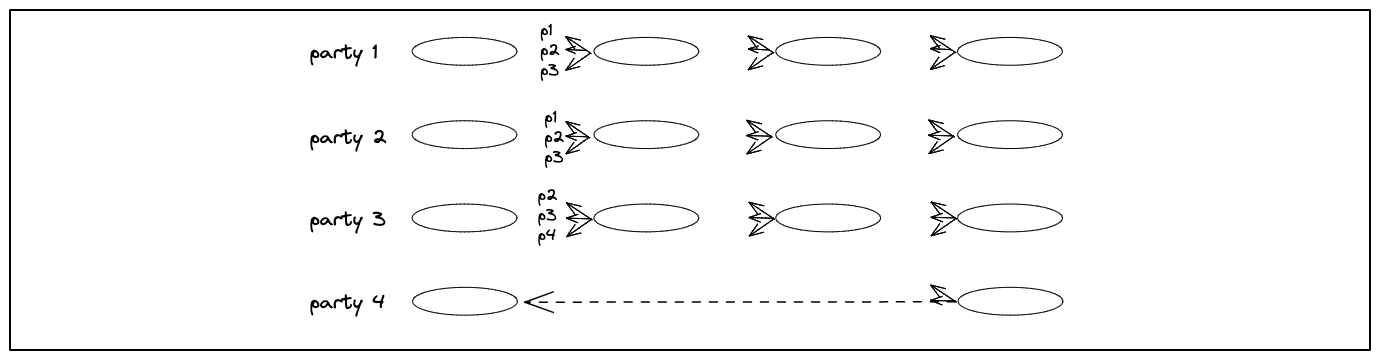
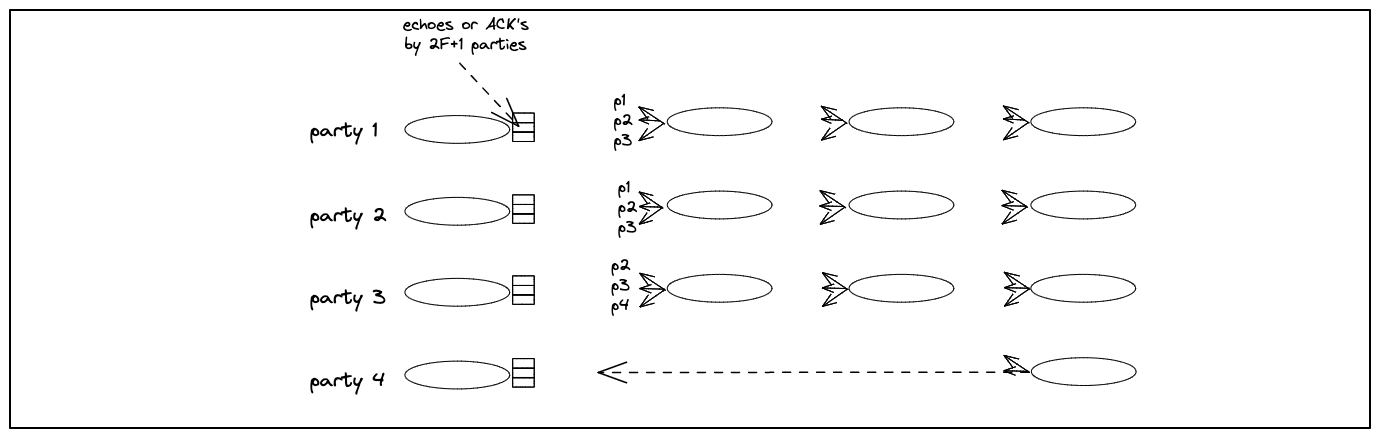
working on DAG draft

diff --git a/_drafts/DAG-BFT.md b/_drafts/DAG-BFT.md
@@ -35,15 +35,14 @@ Distributed middleware systems of that time, e.g.,
 and 
 [Transis](https://ieeexplore.ieee.org/document/243613), 
 were designed for high-throughput by building consensus over causal message ordering (!).
-This topic was so much in the spotlight that during 1993-1994,
-a debate over the _usefulness of CATOCS (causal and totally ordered communication)_ carried into
-several publications of the ACM SIGOPS,
-[[CATOCS]](https://dl.acm.org/doi/10.1145/173668.168623)
-[[Response 1 to CATOCS]](https://dl.acm.org/doi/10.1145/164853.164859)
-[[Response 2 to CATOCS]](https://dl.acm.org/doi/10.1145/164853.164858).
+The debate over the _usefulness of CATOCS (causal and totally ordered communication)_ was so intense that
+Cheriton and Skeen published a position paper
+about it, [[CATOCS, 1993]](https://dl.acm.org/doi/10.1145/173668.168623), 
+followed by Birman's [[response 1 to CATOCS, 1994]](https://dl.acm.org/doi/10.1145/164853.164859)
+and Van Renesse's [[response 2 to CATOCS, 1994]](https://dl.acm.org/doi/10.1145/164853.164858).
 
-Recent interest in scaling blockchains is rekindling interest in this approach with emphasis on Byzantine fault tolerance, e.g., in 
-DAG-based BFT protocols like
+Recent interest in scaling blockchains settles this dispute in favor of the DAG-based approach. 
+A myriad of leading blockchain projects build innovative, high-throughput DAG-based BFT protocols, including
 [Swirlds hashgraph](https://www.swirlds.com/downloads/SWIRLDS-TR-2016-01.pdf),
 [Blockmania](https://arxiv.org/abs/1809.01620),
 [Aleph](https://arxiv.org/pdf/1908.05156.pdf),
@@ -63,7 +62,7 @@ Both proposals and votes are cast by parties simply setting a single value insid
 Importantly and uniquely, DAG transmissions are never blocked on such values being injected, 
 thus Fin operates without hampering DAG throughput whatsoever. 
 
-Fin is meant for pedagogical purposes, not as a full-fledged BFT Consensus system design. The main takeaway from Fin is that by separating reliable transaction dissemination from Consensus, BFT Consensus based on DAG Trans can be made simple and highly performant at the same time.
+Fin is meant for pedagogical purposes, not as a full-fledged BFT Consensus system design. The main takeaway from Fin is that by separating reliable transaction dissemination from Consensus, BFT Consensus based on DAG-T can be made simple and highly performant at the same time.
 
 The name Fin, a small part of aquatic creatures that controls stirring, stands for the protocol succinctness and its central role in blockchains (and also because the scenarios depicted below look like swarms of fish, and DAG in Hebrew means fish). 
 
@@ -71,11 +70,11 @@ The name Fin, a small part of aquatic creatures that controls stirring, stands f
 
 The post is organized as follows:
 
-* The first section, [**DAG Trans**](#DAG-Trans), 
+* The first section, [**DAG-T**](#DAG-Trans), 
 explains the notion of a reliable, causal broadcast transport that shares a DAG among parties. 
 
 * The second section, [**Fin**](#FIN), 
-demonstrates the utility of DAG Trans through **Fin**,
+demonstrates the utility of DAG-T through **Fin**,
 a BFT solution which is one-phase, non-blocking, DAG-riding and designed for the partial synchrony model.
 
 * The third section, [**DAG-riding**](#DAG-Riding), 
@@ -85,7 +84,7 @@ contains comparison notes on DAG-based BFT Consensus solutions.
 
 
 <span id="DAG-Trans"> </span>
-## DAG Trans: A Reliable Causal Broadcast Transport
+## DAG-T: A Reliable Causal Broadcast Transport
 
   <span id="Figure-DAG"> </span>
 
@@ -96,31 +95,36 @@ contains comparison notes on DAG-based BFT Consensus solutions.
   Each messages is guaranteed to be unequivocal and available through 2F+1 acknowledgements. 
   Messages carry causal references to preceding messages._ 
 
-DAG Trans is a reliable, causal broadcast communication substrate for disseminating transactions among N=3F+1 parties, at most F of which are presumed Byzantine faulty and the rest are honest.
-The substrate exposes three basic API's, `broadcast()`, `deliver()`, and `setInfo()`. 
-In a nutshell, DAG Trans guarantees that all parties deliver the same ordered sequence of messages by each sender and exposes a causal-ordering relationship among them. These properties are described below as **Reliability**, **Agreement**, **Validity**, **Integrity**, 
+DAG-T is a transport substrate for disseminating transactions reliably and in causal order.
+The lifetime of transaction dissemination in DAG-T is captured in [**Figure 1**] above: 
+
+1. Parties send messages that contain blocks of transactions and have direct utility. 
+2. Each message carries references to previously delivered messages. 
+These references become a backbone of a causally ordered directed acyclic graph (DAG) structure.
+3. In order for messages to be "delivered", parties exchange acknowledgements about messages they receive. 
+A message is delivered to a party when it is known that the message and all its predecessors 
+have been received and persisted by a quorum of parties,
+guaranteeing that they can be recovered.
+4. Parties insert delivered messages into a local DAG that they independently analyse to determine
+a Consensus total ordering of messages, without sending extra messages. 
+
+In a nutshell, DAG-T guarantees that all parties deliver the same ordered sequence of messages by each sender and exposes a causal-ordering relationship among them. These properties are described below as **Reliability**, **Agreement**, **Validity**, **Integrity**, 
 and **Causality**. 
 
-More specifically, DAG Trans provides a `broadcast(payload)` API for a party `p` to send a message to other parties.
+More specifically, the DAG-T substrate exposes two basic API's, `broadcast()` and `deliver()`. 
+`broadcast(payload)` is an API for a party `p` to send a message to other parties.
 A party's upcall `deliver(m)` is triggered when a message `m` can be delivered. 
-Each message must refer to a certain number of preceding messages including the sender's own preceding message.
-To prepare for Consensus decisions, DAG Trans exposes a single additional API `setInfo(meta)`. 
-Whenever a party invokes `broadcast()`, the transmitted message carries the latest `meta` value invoked in `setInfo(meta)` by the party. 
-
-  **Layer-by-layer construction.** Transports are often constructed in layer-by-layer regime, as depicted in [**Figure 1**](#Figure-DAG) above. In this regime, each sender is allowed one message per layer, and a message may refer only to messages in the layer preceding it.
-  Layering is done so as to regulate transmissions and saturate network capacity, but these considerations are orthogonal to the BFT Consensus protocol. As we shall see below, Fin ignores a layer structure of DAG Trans, if exists.
-
+Each message may refer to preceding messages including the sender's own preceding message.
 Messages are delivered carrying a sender's payload and additional meta information that can be inspected upon reception.
-Every delivered message `m` carries the following fields:
 
-- `m.sender`, the sender identity 
-- `m.index`, a delivery index from the sender
-- `m.payload`, contents such as transaction(s)
-- `m.predecessors`, references to messages sender has seen from other parties, including itself. 
-     - In a layer-by-layer construction, it includes references to messages in the preceding layer.
-- `m.info`, a meta information field reserved for the Consensus protocol to inject through `setInfo()`
+> Every delivered message `m` carries the following fields:
+> 
+> - `m.sender`, the sender identity 
+> - `m.index`, a delivery index from the sender
+> - `m.payload`, contents such as transaction(s)
+> - `m.predecessors`, references to messages sender has seen from other parties, including itself. 
 
-DAG Trans satisfies the following requirements:
+DAG-T satisfies the following requirements:
 
 * **Reliability.** 
 If a `deliver(m)` event happens at an honest party, then eventually `deliver(m)` happens at every other honest party.
@@ -144,12 +148,42 @@ If a `deliver(m)` happens at an honest party,
 then `deliver(d)` events already happened at the party for all messages `d` referenced in `m.predecessors`. 
 Note that by transitively, this ensures its entire causal history has been delivered.
 
-There is a very effective way to spread messages reliably while incorporating causality information.
-For Reliability to be satisfied, sufficiently many copies of `m` must be persisted prior to delivery by any honest party, to guarantee availability against a threshold F of failures. 
-To this end, message digests are echoed by all parties. When 2F+1 echoes are collected, a message can be delivered. 
-The details of the echo protocol implementation are omitted here. We remark that echo protocols can be streamlined, resulting in high utilization and throughout (see [Narwhal](https://arxiv.org/abs/2105.11827)).
+#### setInfo: An API for Injecting Consensus Protocol Input
+
+To prepare for Consensus decisions, DAG-T usually exposes an API allowing the Consensus protocol to inject input into the DAG. 
+Here we introduce a minimally-invasive, non-blocking API `setInfo(meta)`: 
+Whenever a party invokes `broadcast()`, the transmitted message simply carries the latest `meta` value it has previously invoked in `setInfo(meta)`. 
+Accordingly, every delivered message `m` carries the following additional field:
+- `m.info`, a meta information field reserved for the Consensus protocol to inject through `setInfo()`
+
+#### Implementing DAG-T
+
+There are various ways to implement DAG-T
+among N=3F+1 parties, at most F of which are presumed Byzantine faulty and the rest are honest.
+
+The key mechanism for reliability and non-equivocation is for parties to echo a digest of the first index-j message they receive from another party . 
+When 2F+1 echoes are collected, a message can be delivered. 
+There are two ways to echo, one is using broadcast over authenticated point-2-point channels, the other using cryptographic signatures.
+
+Transports are often constructed in layer-by-layer regime.
+In this regime, each sender is allowed one message per layer, and a message may refer only to messages in the layer preceding it.
+Layering is done so as to regulate transmissions and saturate network capacity,
+as demonstrated by various projects, including 
+[Blockmania](https://arxiv.org/abs/1809.01620),
+[Aleph](https://arxiv.org/pdf/1908.05156.pdf), 
+and
+[Narwhal](https://arxiv.org/abs/2105.11827)).
+
+Layering and other implementation considerations are orthogonal to the BFT Consensus protocol. 
+As we shall see below, Fin ignores a layer structure of DAG-T, if exists.
+Here, we only care about the abstract API and properties that DAG-T provides. 
+For further information on DAG implementations,
+see below [further reading](#DAG-based-BFT-Consensus:-Reading-list). 
 
 #### Layers and Temporary Disconnections
+
+When message `m` is delivered carrying information about predecessors:
+     - In a layer-by-layer construction, it includes references to messages in the preceding layer.
 
 Sometimes, a party may become temporarily disconnected. When it reconnects back, the DAG might have grown many layers without it.
 It is undesirable that a reconnecting party would be required to backfill every layer it missed with messages that everyone has to catch up with.
@@ -293,12 +327,12 @@ There is no quorum enabling a commit in `view(r+1)`, nor entering `view(r+2)`. E
 
 ### Fin Analysis
 
-Fin is minimally integrated into DAG Trans, simply setting the meta-information field periodically.
+Fin is minimally integrated into DAG-T, simply setting the meta-information field periodically.
 Importantly, 
 at no time is transaction broadcast slowed down by the Fin protocol. 
 Rather, Consensus logic is embedded into the DAG structure simply by injecting view numbers into it.
 
-The reliability and causality properties of DAG Trans makes arguing about correctness very easy, 
+The reliability and causality properties of DAG-T makes arguing about correctness very easy, 
 though a formal proof of correctness is beyond the scope of this post. 
 
 * **Safety.** 
@@ -311,7 +345,7 @@ Hence, any commit of a future view causally follows (hence, transitively re-comm
 
   First, after GST (Global Stabilization Time), 
 i.e., after communication has become synchronous,
-views are inherently synchronized through DAG Trans. 
+views are inherently synchronized through DAG-T. 
 For let $\Delta$ be an upper bound on communication after GST.
 Once a `view(r)` with an honest leader is entered by the first honest party, within $2 * \Delta$, both the leader and all honest parties enter `view(r)` as well. 
 Within $4 * \Delta$, the `view(r)` proposal and votes from all honest parties are spread to everyone. 
@@ -320,9 +354,9 @@ Within $4 * \Delta$, the `view(r)` proposal and votes from all honest parties ar
 a leader must collect either 2F+1 `view(r)` _votes_ for the leader proposal, hence commit it; or 2F+1 `view(-r)` _expirations_, which is impossible as argued above. 
 
 Fin is modeled after PBFT while removing the complexity of PBFT's view-change, thus supporting regular leader rotation. 
-Simplifying PBFT leveraging DAG Trans is achieved in two ways.
+Simplifying PBFT leveraging DAG-T is achieved in two ways.
 Recall that PBFT works in two-phases. 
-The first phase protects against leader equivocation. Building over DAG Trans, non-equivocation is already guaranteed at the transport level, hence Fin foregoes the first phase. 
+The first phase protects against leader equivocation. Building over DAG-T, non-equivocation is already guaranteed at the transport level, hence Fin foregoes the first phase. 
 The second phase of PBFT guards commits by parties locking their votes and transferring them to the next view. 
 View-change is the most subtle ingredient of PBFT; 
 in particular, a new leader proposal must carry a proof of safety composed of 2F+1 
@@ -346,7 +380,7 @@ Protocols for the partial synchrony model have unbounded worst case by nature, h
 <span id="DAG-Riding"></span>
 ## DAG-based Solutions
 
-[Narwhal](https://arxiv.org/abs/2105.11827) is a DAG transport after which DAG Trans is modeled. It has a layer-by-layer structure, each layer having at most one message per sender and referring to 2F+1 messages in the preceding layer.
+[Narwhal](https://arxiv.org/abs/2105.11827) is a DAG transport after which DAG-T is modeled. It has a layer-by-layer structure, each layer having at most one message per sender and referring to 2F+1 messages in the preceding layer.
 
 [Narwhal-HS](https://arxiv.org/abs/2105.11827) is a BFT Consensus protocol based on [HotStuff]() for the partial synchrony model,
 in which Narwhal is used as a "mempool". 
@@ -368,11 +402,11 @@ It is also a "zero message overhead" protocol over the DAG, but due to a rigid w
 Narwhal transmissions are blocked by timers that are internal to the Consensus protocol.
 Bullshark is designed with 8-layer waves driving commit, each layer purpose-built to serve a different step in the protocol.
 
-Fin builds BFT Consensus riding on DAG Trans for the partial synchrony model with "zero message overhead".
+Fin builds BFT Consensus riding on DAG-T for the partial synchrony model with "zero message overhead".
 Uniquely, it incurs no transmission blocking whatsoever.
-To achieve Consensus over DAG Trans, Fin requires only injecting values into transmissions in a non-blocking manner via `setInfo(v)`. 
-Once a `setInfo(v)` invocation completes, future emissions by the DAG Trans carry the value `v` in the latest `setInfo(v)` invocation. 
-The value `v` is opaque to the DAG Trans and is of interest to the Consensus protocol.
+To achieve Consensus over DAG-T, Fin requires only injecting values into transmissions in a non-blocking manner via `setInfo(v)`. 
+Once a `setInfo(v)` invocation completes, future emissions by the DAG-T carry the value `v` in the latest `setInfo(v)` invocation. 
+The value `v` is opaque to the DAG-T and is of interest to the Consensus protocol.
 
 In terms of protocol design, all of the above solutions are relatively succinct, but arguably, Fin is the simplest.
 DAG-Rider, Tusk and Bullshark are multi-stage protocols embedded into DAG multi-layer "waves" (4 layers in DAG-Rider, 2-3 in Tusk, 8 in Bullshark).
